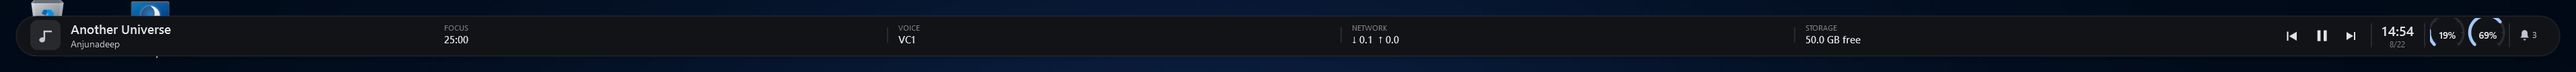
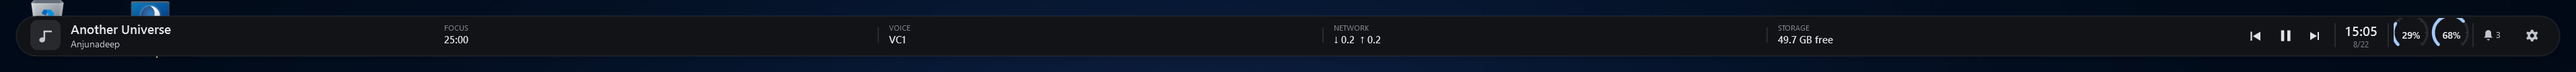
Refresh hover and full-width screenshots

diff --git a/README.md b/README.md
@@ -47,17 +47,24 @@ Notification permission is never requested automatically. If access is not alrea
 
 - **Idle** — media/app context, clock, clipped tachometer-style CPU/RAM arcs and compact activity indicators when the selected width allows them
 - **Hover** — subtly wider/deeper
+- Hover gives a running Focus timer its own remaining-time + real Pause/Resume control before lower-priority activity text
 - **Peek** — reveals selected lower-priority information without opening the full surface
 - **Expanded** — Context/Now Playing, a large clock-centered Overview with CPU/GPU/RAM and Discord voice controls, and Notifications when present. The lower row is Timers, SESSION (foreground process telemetry) or active Downloads, and Storage / Network / Hardware
 
-Smaller widths remove information instead of shrinking every label. When no download is moving, the lower middle lane shows the foreground **SESSION** (process, memory, CPU, threads and uptime); an active download replaces that lane instead of creating another permanent card. Downloads still exists only while a partial download is actively changing: otherwise the same middle lane becomes SESSION with foreground-process CPU, memory and uptime. Discord controls appear only while voice is connected, and Notifications collapse when unavailable. Full Width uses the otherwise empty center for Focus / Voice / active Downloads / Network / Storage instead of stretching artwork or text. The Expanded clock remains the visual anchor above the two-row information layout.
+Smaller widths remove information instead of shrinking every label. When no download is moving, the lower middle lane shows the foreground **SESSION** (process, memory, CPU, threads and uptime); an active download replaces that lane instead of creating another permanent card. Downloads still exists only while a partial download is actively changing: otherwise the same middle lane becomes SESSION with foreground-process CPU, memory and uptime. Discord controls appear only while voice is connected, and Notifications collapse when unavailable. Full Width uses the otherwise empty center for Focus / Voice / active Downloads / Network / Storage instead of stretching artwork or text. Its right-edge settings gear opens the same real TopIsland context menu used by the tray/overlay. The Expanded clock remains the visual anchor above the two-row information layout.
 
 ## Screenshots
 
-<p align="center">
-  <b>Standard Idle · tachometer CPU/RAM</b><br>
-  <img src="docs/screenshots/compact-idle.png" alt="TopIsland Standard idle with tachometer CPU and RAM meters" width="72%">
-</p>
+<table>
+  <tr>
+    <td align="center"><b>Standard Idle · tachometer CPU/RAM</b></td>
+    <td align="center"><b>Hover · active Focus control</b></td>
+  </tr>
+  <tr>
+    <td><img src="docs/screenshots/compact-idle.png" alt="TopIsland Standard idle with tachometer CPU and RAM meters"></td>
+    <td><img src="docs/screenshots/compact-hover-focus.png" alt="TopIsland hover with running Focus timer and pause control"></td>
+  </tr>
+</table>
 <table>
   <tr>
     <td align="center"><b>Dynamic Island · Material You</b></td>

diff --git a/docs/DESIGN-AUDIT.md b/docs/DESIGN-AUDIT.md
@@ -73,6 +73,7 @@ Expanded Notch follows the BoringNotch relationship:
 - Standard: add subtitle/source when space allows
 - Idle >= 520 dip: allow compact CPU/RAM as clipped 270-degree tachometer arcs; do not use full 360-degree rings in the compact shell
 - Peek >= 430 dip: allow compact CPU/RAM
+- Hover/Peek: a running Focus timer gets the dedicated remaining-time + Pause/Resume control; otherwise show at most one lower-priority activity summary at Standard width
 - Expanded: the top row is Context/Now Playing, a large clock-centered Overview (CPU/GPU/RAM, power/thermal summary, live Discord voice controls), and Notifications when real notifications exist. The lower row is Timers, a SESSION lane using live foreground-process telemetry that is replaced by Downloads only while bytes are actively changing, and compact Storage/Network/Hardware metrics.
 
 Do not scale typography down to preserve content. Remove lower-priority content instead.
@@ -151,6 +152,7 @@ Verified development setup:
 A wider shell does not justify stretching its content.
 
 - Full Width extends the outer surface while preserving safe margins.
+- The Full Width settings gear opens the existing context menu; it is a real configuration entry point, not a decorative icon
 - The media information/progress/control column has a readable maximum width (`520 dip` in the current layout).
 - Status information may remain anchored to the right edge.
 - Empty space between content groups is preferable to stretching progress bars, text blocks, or artwork to fill the shell.
